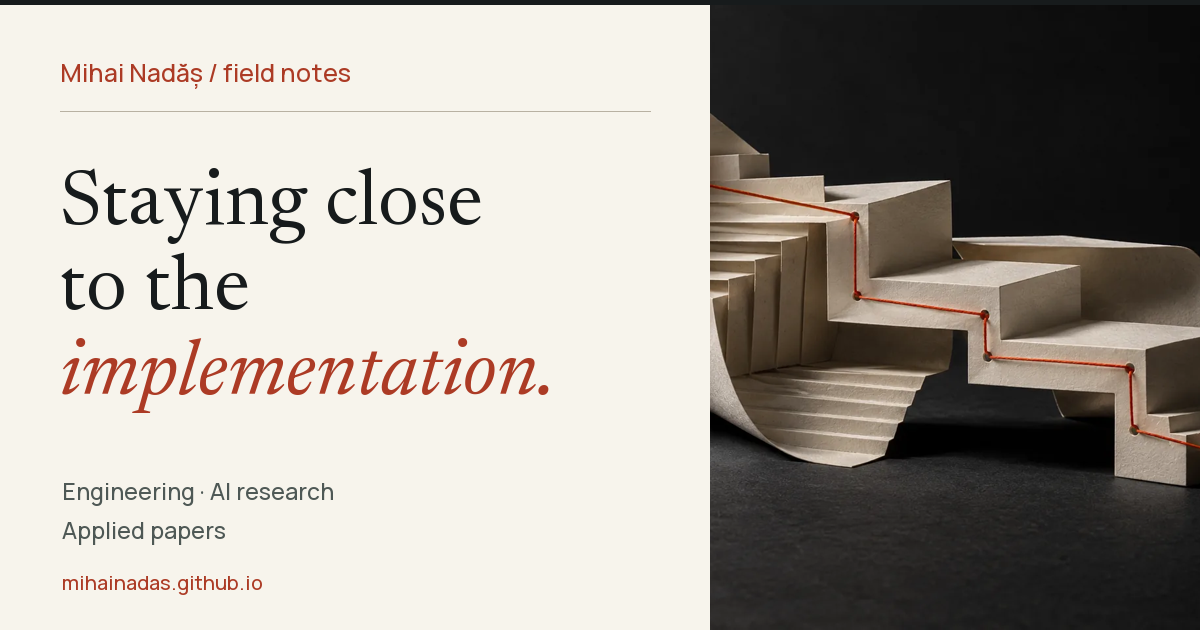
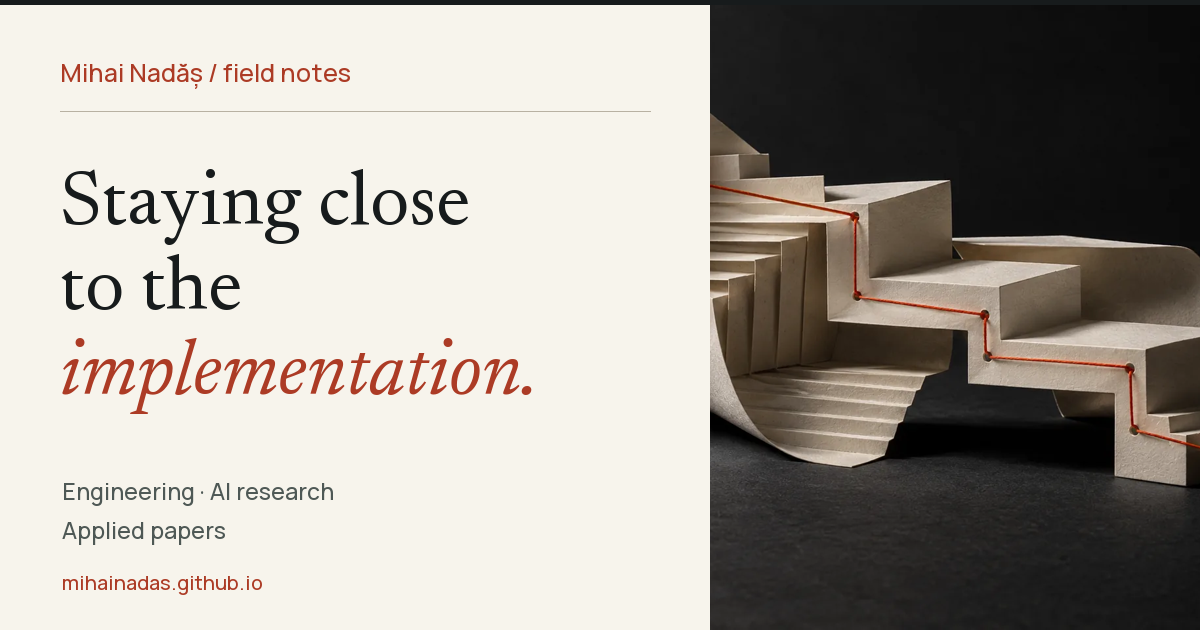
Keep generated assets aligned with the configured domain

Changed region(s): [[0.0617, 0.2714, 0.4008, 0.5127], [0.0617, 0.5429, 0.4625, 0.6635]]

diff --git a/scripts/render_resume.py b/scripts/render_resume.py
@@ -20,8 +20,13 @@ from reportlab.pdfbase import pdfmetrics
 from reportlab.pdfbase.ttfonts import TTFont
 from reportlab.platypus import SimpleDocTemplate, Paragraph, Spacer, PageBreak, KeepTogether
 
+try:
+    from scripts.site_config import canonical_origin
+except ModuleNotFoundError:
+    from site_config import canonical_origin
+
 ROOT = Path(__file__).resolve().parents[1]
-INPUTS = ("_data/profile.json", "scripts/render_resume.py", "assets/media-sources/manrope.ttf")
+INPUTS = ("_data/profile.json", "scripts/render_resume.py", "assets/media-sources/manrope.ttf", "scripts/site_config.py")
 
 
 def escape(value, entities=None):
@@ -34,7 +39,7 @@ def digest(path):
 
 
 def absolute(url):
-    return "https://mihainadas.github.io" + url if url.startswith("/") else url
+    return canonical_origin(ROOT) + url if url.startswith("/") else url
 
 
 def link(label, url):
@@ -116,7 +121,7 @@ def main():
         canvas.setDateFormatter(lambda *args: 'D:' + data['reviewed'].replace('-', '') + '000000Z')
         canvas.setFont("Manrope", 7)
         canvas.setFillColor(muted)
-        canvas.drawString(44, 28, "Mihai Dan Nadăș | mihainadas.github.io/resume/")
+        canvas.drawString(44, 28, "Mihai Dan Nadăș | " + canonical_origin(ROOT).removeprefix('https://') + "/resume/")
         canvas.drawRightString(551, 28, f"Reviewed {data['reviewed']} | {document.page}")
         canvas.restoreState()
 
@@ -126,7 +131,8 @@ def main():
     document.build(story, onFirstPage=frame, onLaterPages=frame)
     if document.page != 2:
         raise ValueError('Resume must remain two pages; revise and visually review the layout before publishing.')
-    record = {"reviewed": data["reviewed"], "inputs": {name: digest(ROOT / name) for name in INPUTS}, "pdf_sha256": digest(output)}
+    record = {"reviewed": data["reviewed"], "site_origin": canonical_origin(ROOT),
+              "inputs": {name: digest(ROOT / name) for name in INPUTS}, "pdf_sha256": digest(output)}
     (ROOT / "_data/resume_build.json").write_text(json.dumps(record, indent=2) + "\n", encoding="utf-8")
     print("Generated " + str(output.relative_to(ROOT)))
 

diff --git a/tests/test_professional_platform.py b/tests/test_professional_platform.py
@@ -20,6 +20,7 @@ class PlatformTests(unittest.TestCase):
         for folder in ('_data', '_posts', '_layouts', '_includes', 'assets/media', 'assets/editorial', 'assets/media-sources', 'assets/downloads', 'scripts'):
             shutil.copytree(ROOT / folder, self.root / folder)
         shutil.copy(ROOT / '_data/now.yml', self.root / '_data/now.yml')
+        shutil.copy(ROOT / '_config.yml', self.root / '_config.yml')
         for path in ROOT.glob('*.md'):
             shutil.copy(path, self.root / path.name)
 
@@ -111,6 +112,23 @@ class PlatformTests(unittest.TestCase):
     def test_corrupt_pdf_is_rejected(self):
         (self.root / 'assets/downloads/mihai-nadas-resume.pdf').write_bytes(b'not a PDF')
         with self.assertRaisesRegex(ValueError, 'PDF is missing, corrupt'):
+            validate_professional(self.root)
+
+    def test_domain_change_requires_pdf_regeneration(self):
+        path = self.root / '_config.yml'
+        path.write_text(path.read_text().replace('url: "https://mihainadas.github.io"', 'url: "https://nadas.ro"'))
+        with self.assertRaisesRegex(ValueError, 'changing the site origin'):
+            validate_professional(self.root)
+
+    def test_unrelated_config_change_does_not_stale_pdf(self):
+        path = self.root / '_config.yml'
+        path.write_text(path.read_text() + '\n# unrelated Jekyll setting\n')
+        validate_professional(self.root)
+
+    def test_changed_origin_reader_requires_pdf_regeneration(self):
+        path = self.root / 'scripts/site_config.py'
+        path.write_text(path.read_text() + '\n# changed reader\n')
+        with self.assertRaisesRegex(ValueError, 'resume is stale'):
             validate_professional(self.root)
 
     def test_unresolved_business_evidence_is_rejected(self):

diff --git a/tests/test_asset_origin.py b/tests/test_asset_origin.py
@@ -1,0 +1,39 @@
+"""Asset origins must follow configuration without accepting unsafe URLs."""
+
+from pathlib import Path
+import tempfile
+import unittest
+
+from scripts.site_config import canonical_origin
+
+
+class AssetOriginTests(unittest.TestCase):
+    def setUp(self):
+        temporary = tempfile.TemporaryDirectory()
+        self.addCleanup(temporary.cleanup)
+        self.root = Path(temporary.name)
+
+    def test_supported_origins(self):
+        for value in ('https://mihainadas.github.io', 'https://nadas.ro', 'https://nadas.ro/'):
+            with self.subTest(value=value):
+                (self.root / '_config.yml').write_text(f'url: "{value}"\n')
+                self.assertEqual(canonical_origin(self.root), value.rstrip('/'))
+
+    def test_invalid_origins(self):
+        for value in ('', 'http://nadas.ro', 'https://nadas.ro/path', 'https://user@nadas.ro',
+                      'https://nadas.ro?x=1', 'https://nadas.ro#fragment', 'https://nadas.ro:443',
+                      'https://nadas.ro:invalid', 'https://nadas.ro foo'):
+            with self.subTest(value=value):
+                (self.root / '_config.yml').write_text(f'url: "{value}"\n')
+                with self.assertRaises(ValueError):
+                    canonical_origin(self.root)
+
+    def test_missing_or_duplicate_origin(self):
+        for text in ('title: Test\n', 'url: https://nadas.ro\nurl: https://example.org\n'):
+            (self.root / '_config.yml').write_text(text)
+            with self.assertRaises(ValueError):
+                canonical_origin(self.root)
+
+
+if __name__ == '__main__':
+    unittest.main()

diff --git a/scripts/check_professional.py b/scripts/check_professional.py
@@ -7,8 +7,13 @@ from datetime import date, datetime
 from pathlib import Path
 from zoneinfo import ZoneInfo
 
+try:
+    from scripts.site_config import canonical_origin
+except ModuleNotFoundError:
+    from site_config import canonical_origin
+
 ROOT = Path(__file__).resolve().parents[1]
-RESUME_INPUTS = {'_data/profile.json', 'scripts/render_resume.py', 'assets/media-sources/manrope.ttf'}
+RESUME_INPUTS = {'_data/profile.json', 'scripts/render_resume.py', 'assets/media-sources/manrope.ttf', 'scripts/site_config.py'}
 
 
 def validate_professional(root=ROOT):
@@ -71,6 +76,8 @@ def validate_professional(root=ROOT):
     record = json.loads((root / '_data/resume_build.json').read_text(encoding='utf-8'))
     if record['reviewed'] != profile['reviewed'] or set(record['inputs']) != RESUME_INPUTS:
         raise ValueError('resume build record does not describe the current profile and inputs')
+    if record.get('site_origin') != canonical_origin(root):
+        raise ValueError('downloadable resume is stale: regenerate after changing the site origin')
     for name, expected in record['inputs'].items():
         if hashlib.sha256((root / name).read_bytes()).hexdigest() != expected:
             raise ValueError(f'downloadable resume is stale: regenerate after changing {name}')

diff --git a/scripts/site_config.py b/scripts/site_config.py
@@ -1,0 +1,21 @@
+"""Read the single production origin shared by Jekyll and generated assets."""
+
+import re
+from pathlib import Path
+from urllib.parse import urlsplit
+
+ROOT = Path(__file__).resolve().parents[1]
+
+
+def canonical_origin(root=ROOT):
+    text = (root / '_config.yml').read_text(encoding='utf-8')
+    values = re.findall(r'^url:[ \t]*(.*)$', text, re.M)
+    if len(values) != 1:
+        raise ValueError('production site.url must declare one bare HTTPS origin')
+    value = values[0].strip().strip('\"\'')
+    parts = urlsplit(value)
+    if (parts.scheme != 'https' or not parts.hostname or parts.username or parts.password
+            or parts.port or parts.path not in ('', '/') or parts.query or parts.fragment
+            or any(character.isspace() for character in value)):
+        raise ValueError('production site.url must be a bare HTTPS origin')
+    return value.rstrip('/')

diff --git a/scripts/render_social_card.py b/scripts/render_social_card.py
@@ -5,6 +5,11 @@ from pathlib import Path
 
 from PIL import Image, ImageDraw, ImageFont, ImageOps
 
+try:
+    from scripts.site_config import canonical_origin
+except ModuleNotFoundError:
+    from site_config import canonical_origin
+
 
 def main() -> None:
     parser = argparse.ArgumentParser(description=__doc__)
@@ -38,7 +43,7 @@ def main() -> None:
     draw.text((60, 336), "implementation.", fill=accent, font=italic(78))
     draw.text((62, 475), "Engineering · AI research", fill=muted, font=font(23))
     draw.text((62, 514), "Applied papers", fill=muted, font=font(23))
-    draw.text((62, 568), "mihainadas.github.io", fill=accent, font=font(20))
+    draw.text((62, 568), canonical_origin().removeprefix('https://'), fill=accent, font=font(20))
     image.save(Path(__file__).resolve().parents[1] / "assets" / "social-card.png", optimize=True)
 
 

diff --git a/docs/domain-migration.md b/docs/domain-migration.md
@@ -6,7 +6,7 @@ Requested by Mihai on 17 October 2026. Target: `https://nadas.ro`, with `www` an
 
 The clean checkout was fast-forwarded before preparation. Public DNS shows Namecheap FreeDNS nameservers, Google mail exchange records, and a Google SPF TXT record. The apex has no A/AAAA answer; `www` returns NXDOMAIN. No CAA or GitHub account-verification TXT answer was found in the inspected public records. These are dated observations, not a full DNS-zone export or proof of ownership.
 
-GitHub's Pages API reports legacy publishing, no custom domain, HTTPS enforced, and the current blog built successfully. Recheck current DNS and Pages settings before cutover. Namecheap is not signed in in the inspected browser session. Authentication and two-factor entry belong in the provider interface, not chat or repository files. Do not search unrelated secrets or password-manager vaults.
+GitHub's Pages API reports legacy publishing from `main` at the repository root, no custom domain, HTTPS enforced, and the current blog built successfully. Recheck current DNS and Pages settings before cutover. On 17 October, signed-in Namecheap inspection confirmed this account controls the FreeDNS zone. Its complete expanded host list contains the Google calendar/docs/mail aliases, SPF, DMARC, and Google DKIM record; a snapshot is retained in ignored local `vendor/` storage with the public Google MX values. No records were changed. GitHub's browser session still requires authentication for personal-account domain verification. Authentication and two-factor entry belong in the provider interface, not chat or repository files. Do not search unrelated secrets or password-manager vaults.
 
 ## Ready without changing the live address
 
@@ -24,7 +24,7 @@ python3 scripts/check_build.py --site-dir vendor/domain-preview --config vendor/
 BUNDLE_PATH=vendor/bundle bundle exec htmlproofer vendor/domain-preview --disable-external --enforce-https
 ```
 
-This is only a metadata and site-build rehearsal. It does not verify public DNS, a certificate, the future PDF's links, notebook redirects, or account registration. The production `_config.yml`, Pages domain setting, and DNS remain unchanged until coordinated cutover.
+This is only a metadata and site-build rehearsal. It does not verify public DNS, a certificate, the future PDF's links, notebook redirects, or account registration. The production `_config.yml`, Pages domain setting, and DNS remain unchanged until coordinated cutover. The résumé and social-card generators now derive their hostname from `_config.yml`; the résumé integrity gate rejects a stale public origin without treating unrelated configuration edits as career changes. Regenerate and visually inspect both assets after switching the origin.
 
 ## Cutover sequence
 

diff --git a/docs/professional-operations.md b/docs/professional-operations.md
@@ -46,7 +46,7 @@ python3 scripts/render_resume.py
 python3 scripts/check_professional.py
 ```
 
-This generates `assets/downloads/mihai-nadas-resume.pdf` and `_data/resume_build.json`. The record covers the profile, renderer, font, and PDF. A changed input without regeneration fails the normal source gate. Ordinary Jekyll/Pages builds publish the committed PDF without installing a PDF toolchain or using a remote service.
+This generates `assets/downloads/mihai-nadas-resume.pdf` and `_data/resume_build.json`. The record covers the profile, renderer, font, origin reader, configured public origin, and PDF. A changed input or domain without regeneration fails the normal source gate. Unrelated Jekyll configuration changes do not require a new PDF. A domain-only rebuild does not refresh the factual review date. Ordinary Jekyll/Pages builds publish the committed PDF without installing a PDF toolchain or using a remote service.
 
 Inspect every rendered PDF page after regeneration: layout, Romanian glyphs, selectable text, and links. Keep the concise two-page layout. The server-rendered HTML is the accessible primary version. The current ReportLab PDF is selectable and linked but not tagged; do not claim PDF/UA compliance. Store previews in ignored `vendor/`. Run every normal site check before release.
 
